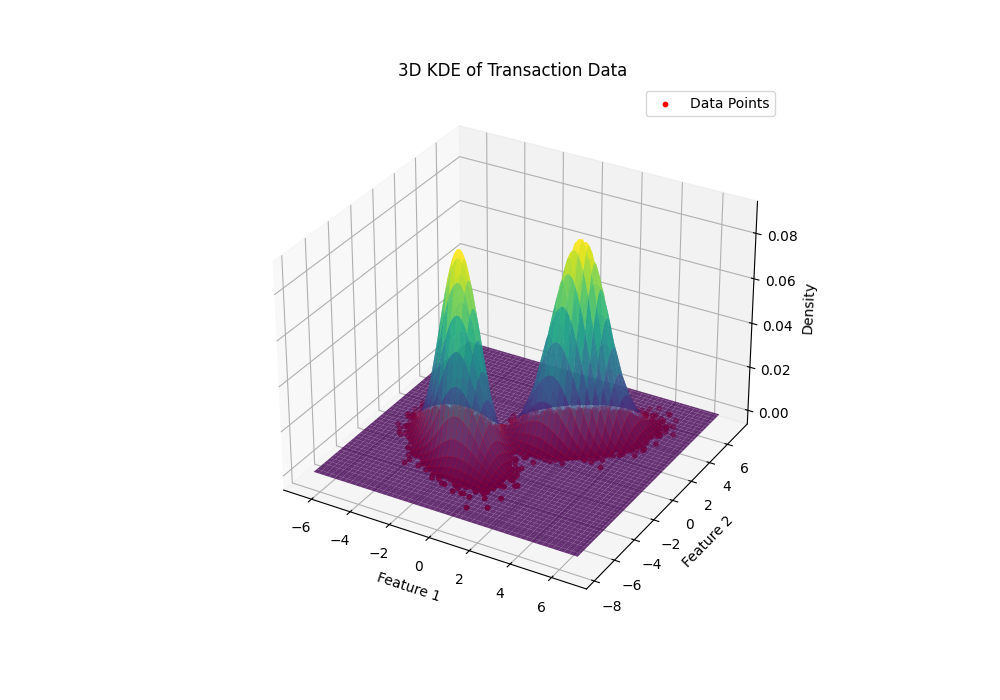
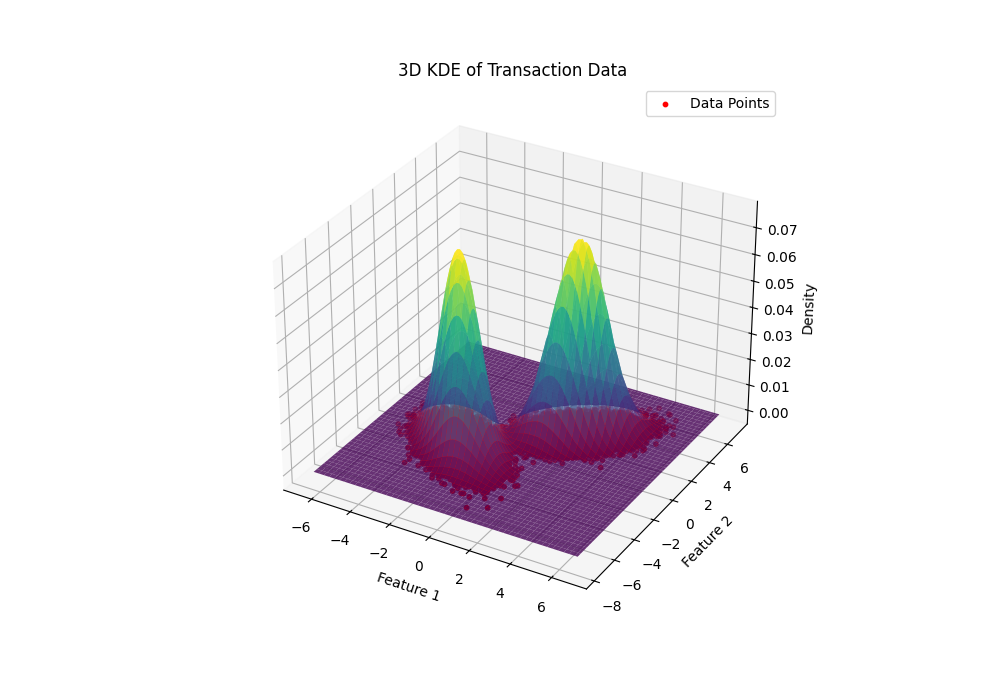
q2 changed

diff --git a/assignment-3/q2/2.py b/assignment-3/q2/2.py
@@ -18,14 +18,17 @@ class EpanechnikovKDE:
         u = (x - xi) / self.bandwidth
         norm_u = np.linalg.norm(u)
         if norm_u <= 1:
-            return 3 / 4 * (1 - norm_u ** 2)
+            return (2 / np.pi) *  (1 - norm_u ** 2)
         return 0
         # TODO
 
     def evaluate(self, x):
         """Evaluate the KDE at point x."""
-        n = len(self.data)
-        return np.sum([self.epanechnikov_kernel(x, xi) for xi in self.data]) / (n * self.bandwidth)
+        u = (x - self.data) / self.bandwidth
+        norm_u = np.linalg.norm(u, axis=1)
+        mask = norm_u <= 1
+        kernel_values = (2 / np.pi) * (1 - norm_u[mask] ** 2)
+        return np.sum(kernel_values) / (len(self.data) * self.bandwidth ** 2)
         # TODO
 
 
